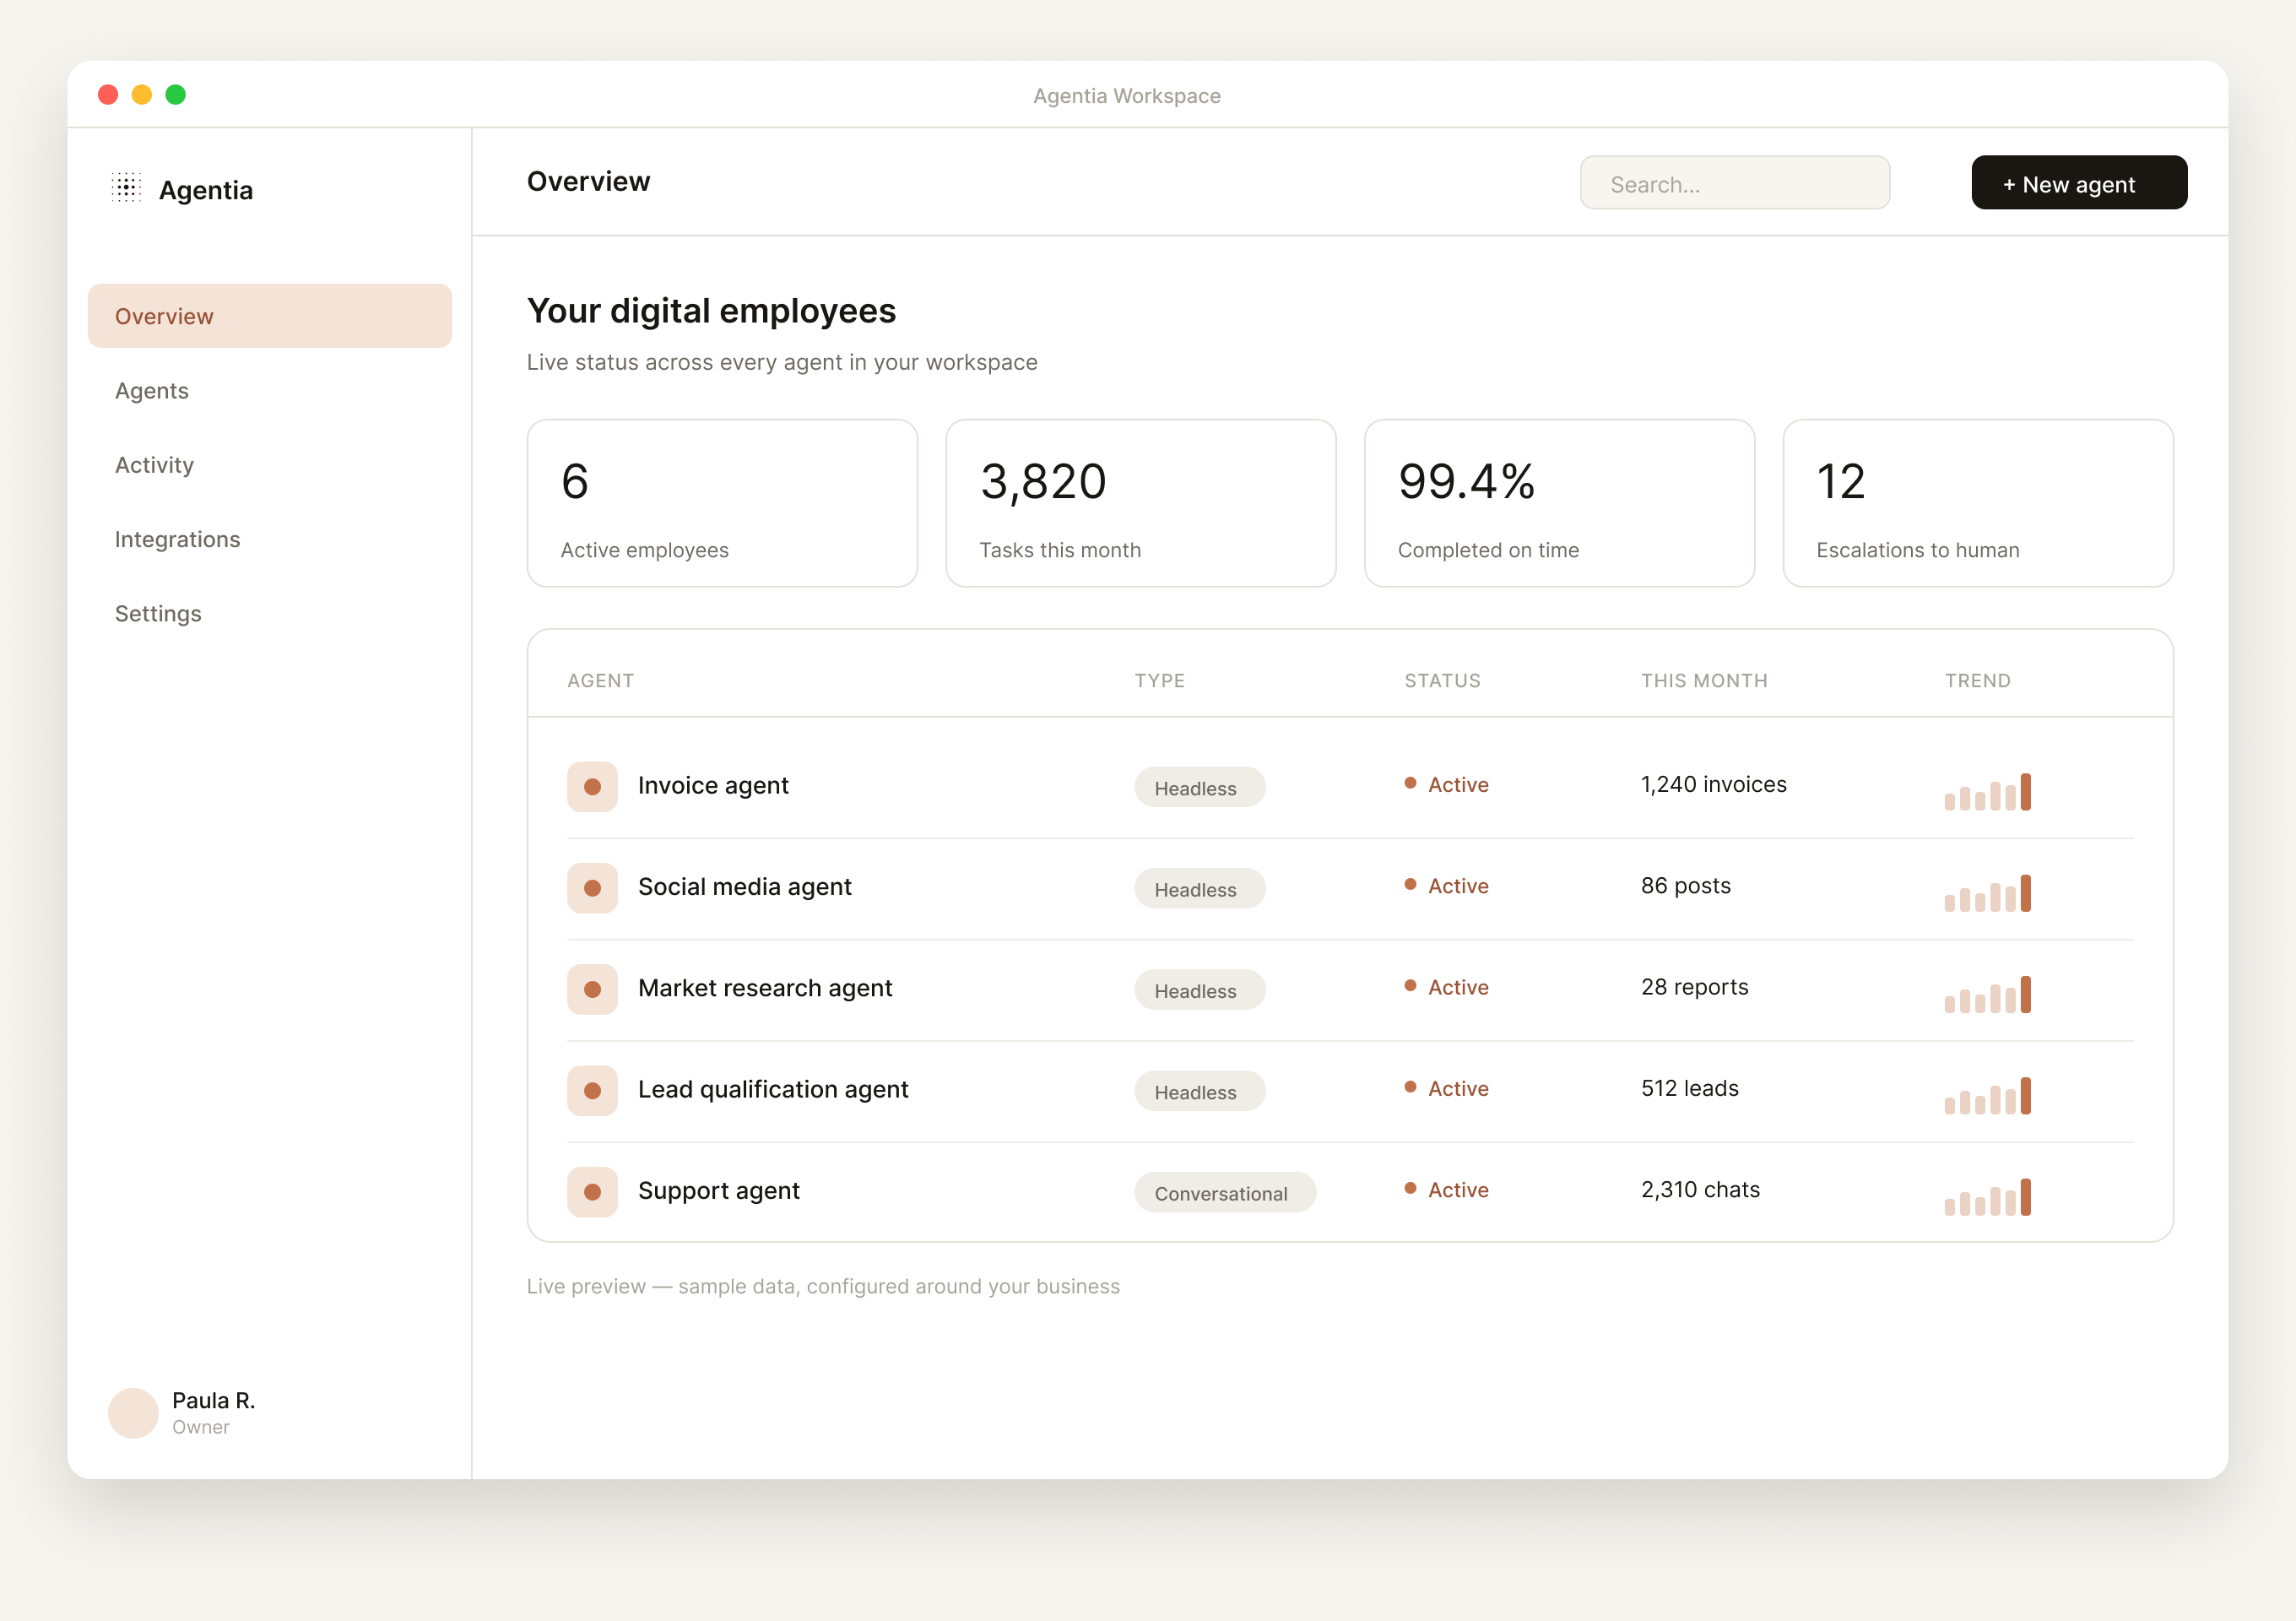
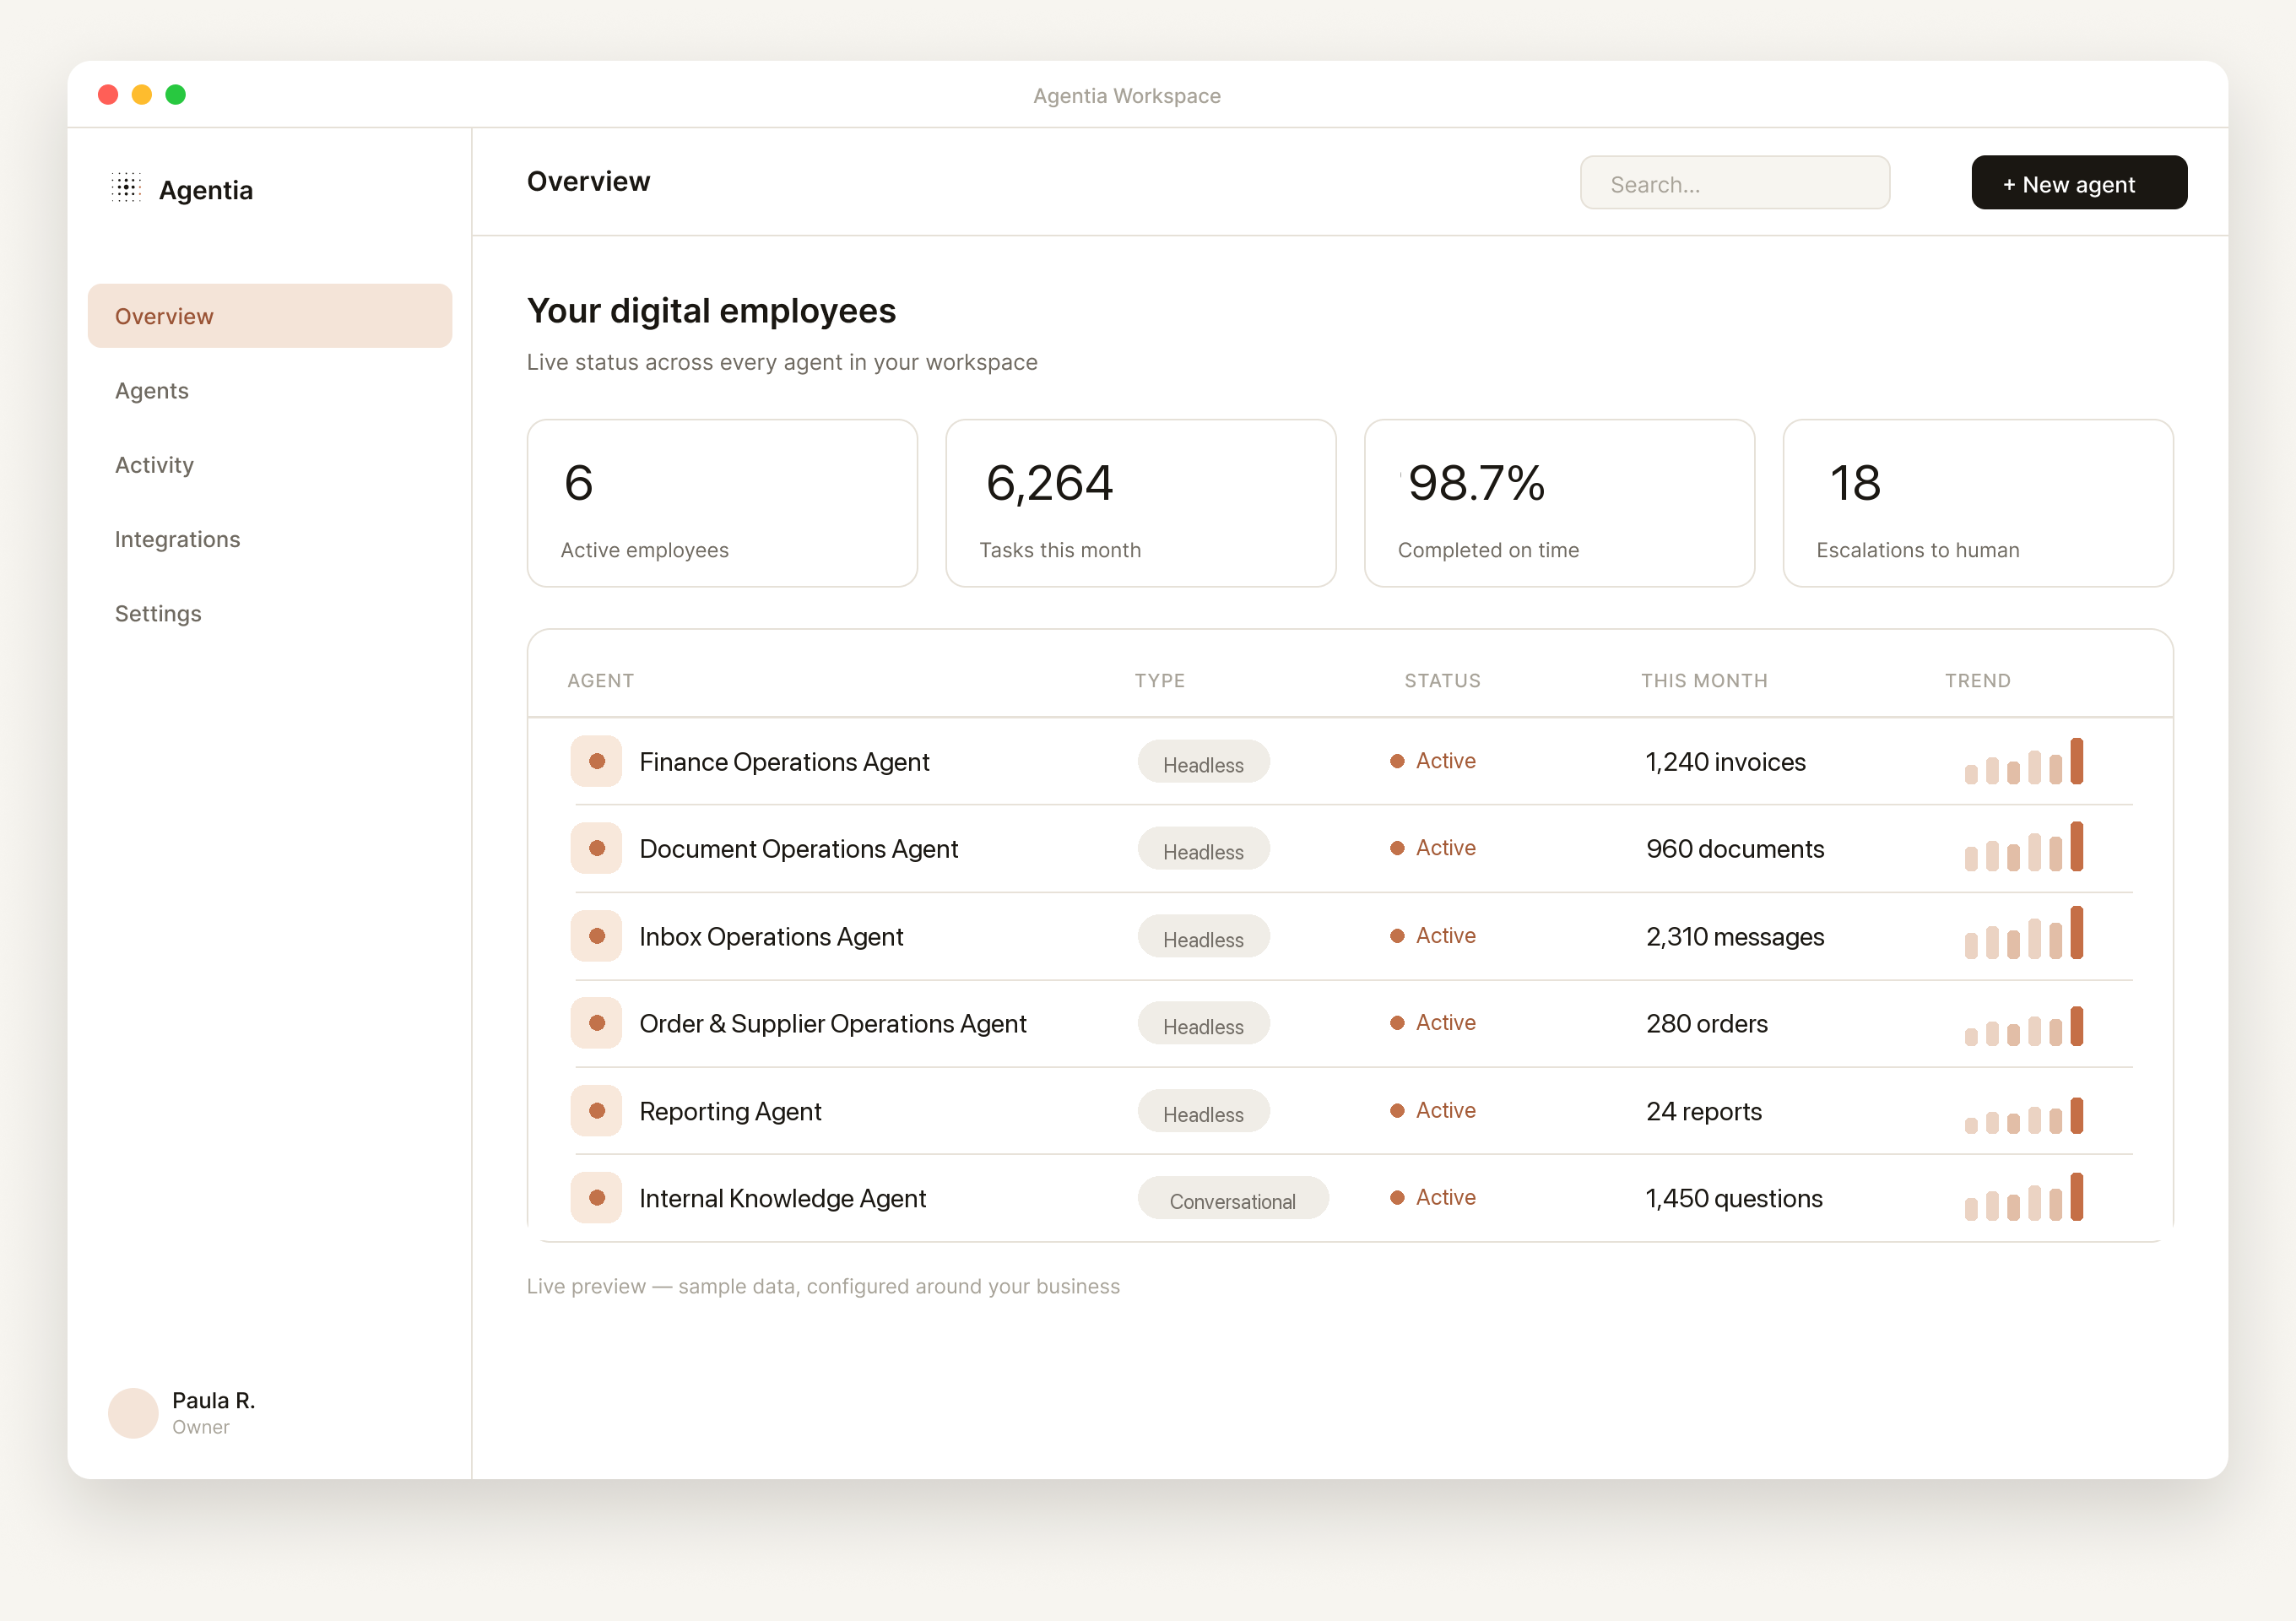
Align workspace mock agent taxonomy

diff --git a/index.html b/index.html
@@ -198,7 +198,7 @@
 
         <div class="trust-layout">
           <figure class="workspace-frame trust-frame">
-            <img src="assets/workspace.png" alt="Panel de control de Agentia con agentes activos y métricas de operación" />
+            <img src="assets/workspace.png?v=agent-taxonomy-20260622" alt="Panel de control de Agentia con agentes activos y métricas de operación" />
           </figure>
 
           <div class="trust-list">